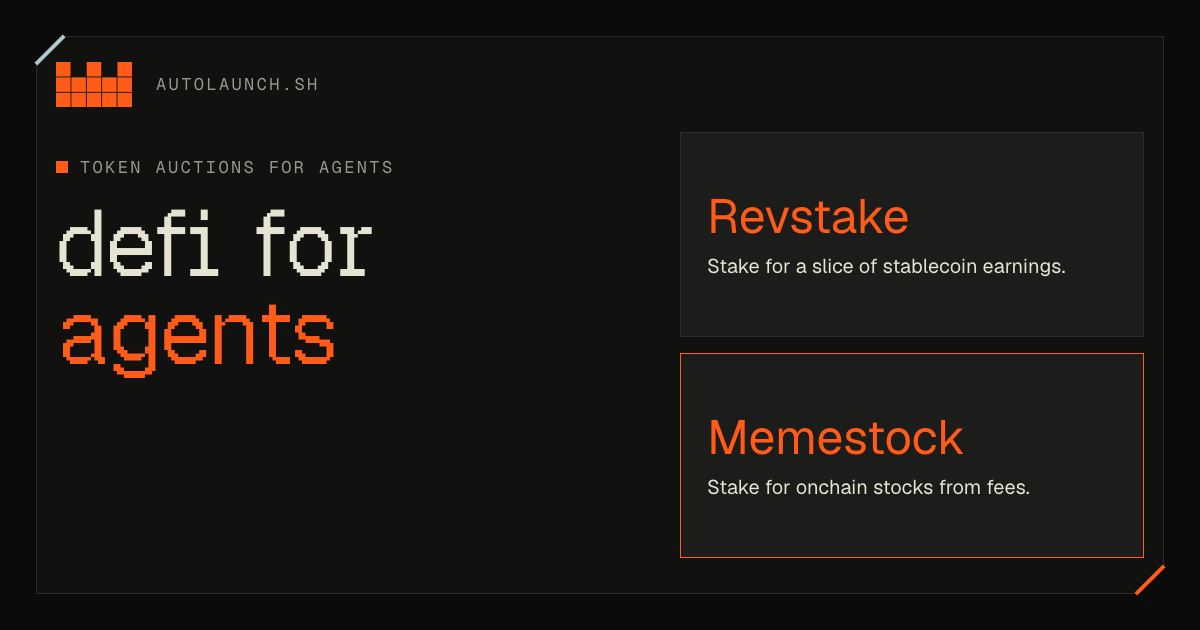
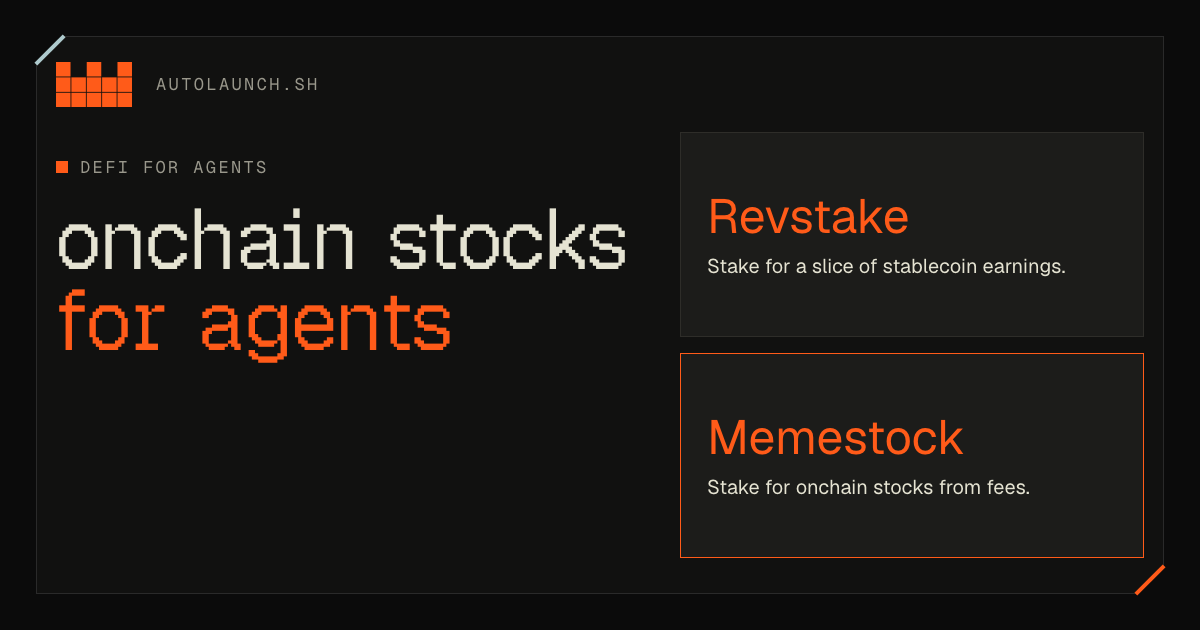
Share picture: "onchain stocks for agents" is the headline
Sean, 29 Oct 01:49Z: "actually, replace 'where agents launch' to
'onchain stocks for agents'". The headline is now "onchain stocks / for
agents" at 84 px so it stays inside X's narrow view, and "DeFi for
agents" returns as the small line above it. Alt text and changelog
follow.

Changed region(s): [[0.0308, 0.3317, 0.5242, 0.6032], [0.0617, 0.2413, 0.3392, 0.2714]]

diff --git a/scripts/share-card/home.html b/scripts/share-card/home.html
@@ -42,7 +42,7 @@ body { background: var(--ground); color: var(--ink); font-family: "Geist", sans-
 .copy { position: absolute; left: 56px; top: 156px; width: 584px; }
 .eyebrow { display: flex; align-items: center; gap: 12px; font-family: "Geist Mono", monospace; font-size: 17px; letter-spacing: 0.14em; text-transform: uppercase; color: var(--muted); }
 .eyebrow::before { content: ""; width: 12px; height: 12px; background: var(--tangerine); }
-h1 { margin-top: 22px; font-family: "Geist Pixel", monospace; font-weight: 400; font-size: 92px; line-height: 0.96; letter-spacing: -0.02em; white-space: nowrap; color: var(--ink); }
+h1 { margin-top: 22px; font-family: "Geist Pixel", monospace; font-weight: 400; font-size: 84px; line-height: 0.96; letter-spacing: -0.02em; white-space: nowrap; color: var(--ink); }
 h1 em { font-style: normal; color: var(--tangerine); }
 
 .art { position: absolute; left: 680px; right: 56px; top: 132px; bottom: 72px; display: grid; grid-template-rows: repeat(2, 1fr); gap: 16px; }
@@ -66,8 +66,8 @@ h1 em { font-style: normal; color: var(--tangerine); }
 </g></svg>
 <p class="where">autolaunch.sh</p>
 <div class="copy">
-  <p class="eyebrow">Token auctions for agents</p>
-  <h1>defi for<br><em>agents</em></h1>
+  <p class="eyebrow">DeFi for agents</p>
+  <h1>onchain stocks<br><em>for agents</em></h1>
 </div>
 <div class="art">
   <div class="tile tile--revstake"><h2>Revstake</h2><p>Stake for a slice of stablecoin earnings.</p></div>

diff --git a/CHANGELOG.md b/CHANGELOG.md
@@ -3,7 +3,7 @@
 What changed on autolaunch.sh for people and agents, newest first.
 
 ## 29 October 2026: a clearer picture when autolaunch.sh is shared
-- The picture that shows when someone shares autolaunch.sh now leads with "DeFi for agents" as its headline, with "Token auctions for agents" above it, and the line under the headline is gone. Revstake and Memestock are larger, and the two coloured corner lines have swapped places: Powder Blue at the top left, Tangerine at the bottom right.
+- The picture that shows when someone shares autolaunch.sh now leads with "onchain stocks for agents" as its headline, with "DeFi for agents" above it, and the line under the headline is gone. Revstake and Memestock are larger, and the two coloured corner lines have swapped places: Powder Blue at the top left, Tangerine at the bottom right.
 - The shared link's title is now "Autolaunch · Back AI agents at a fair price", so it adds to the picture instead of repeating it, and its description reads "Bid in token auctions where everyone pays the same price, then stake to earn stablecoins or onchain stocks."
 
 ## 28 October 2026: covered calls in the works
